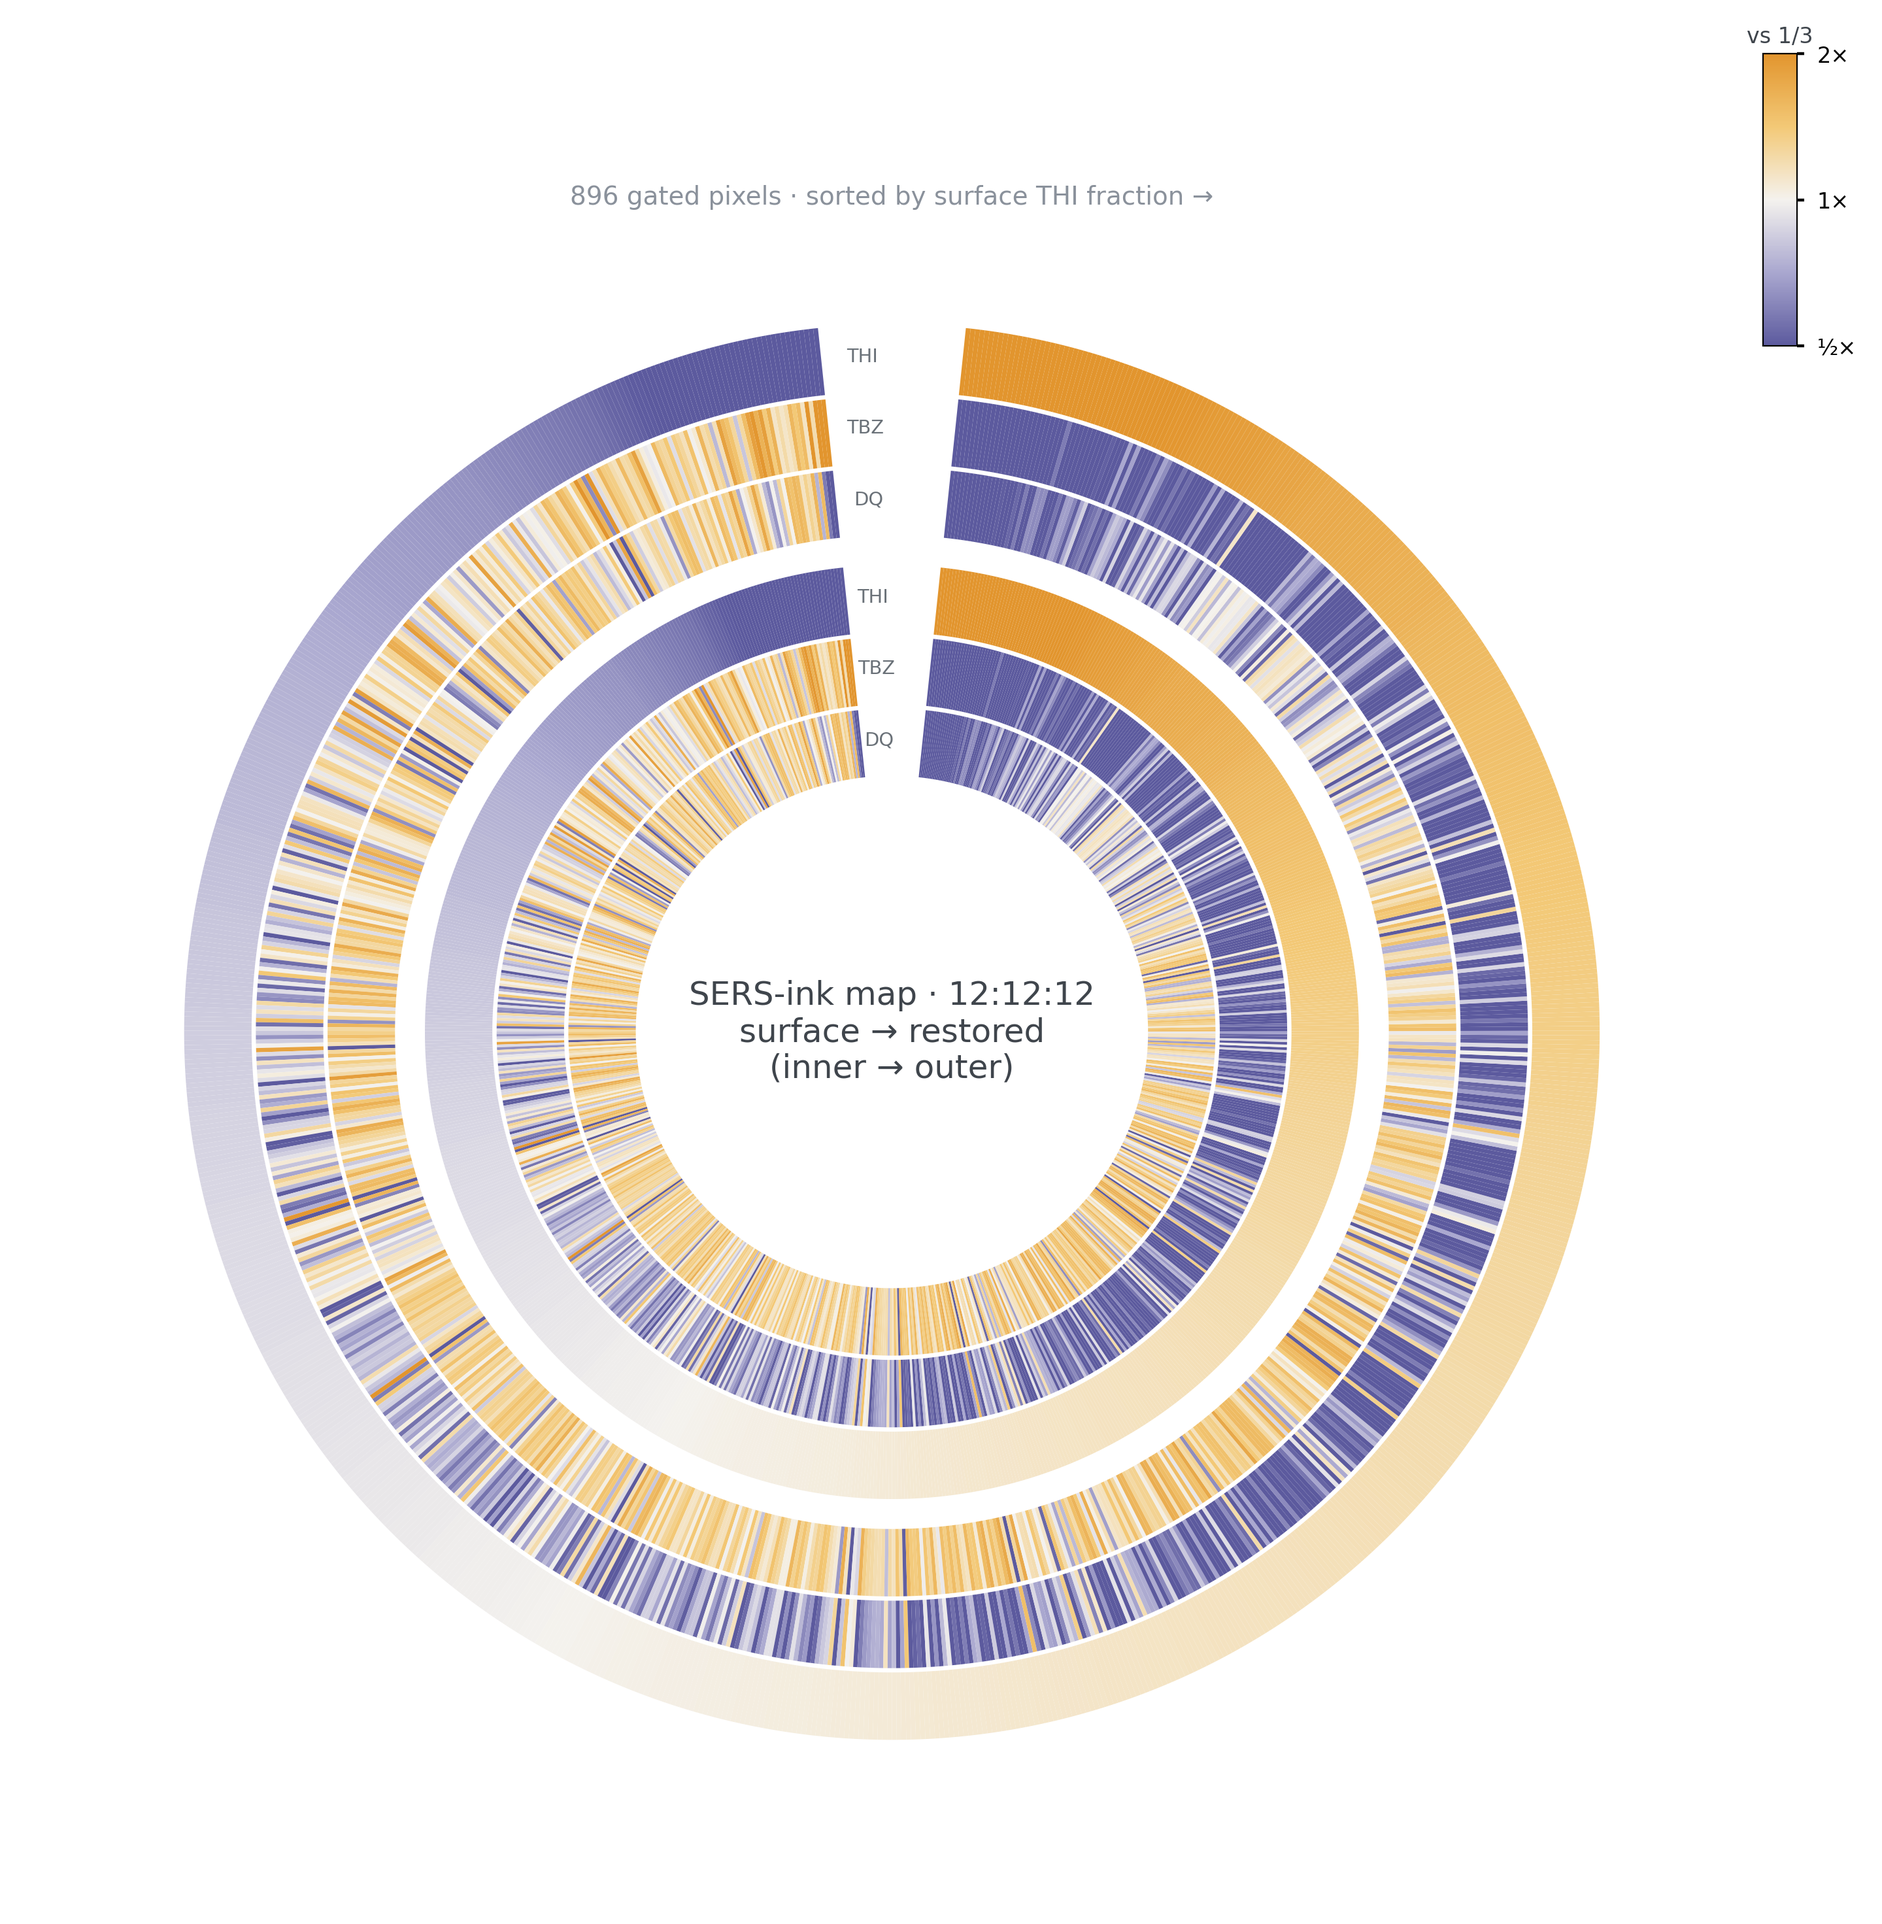
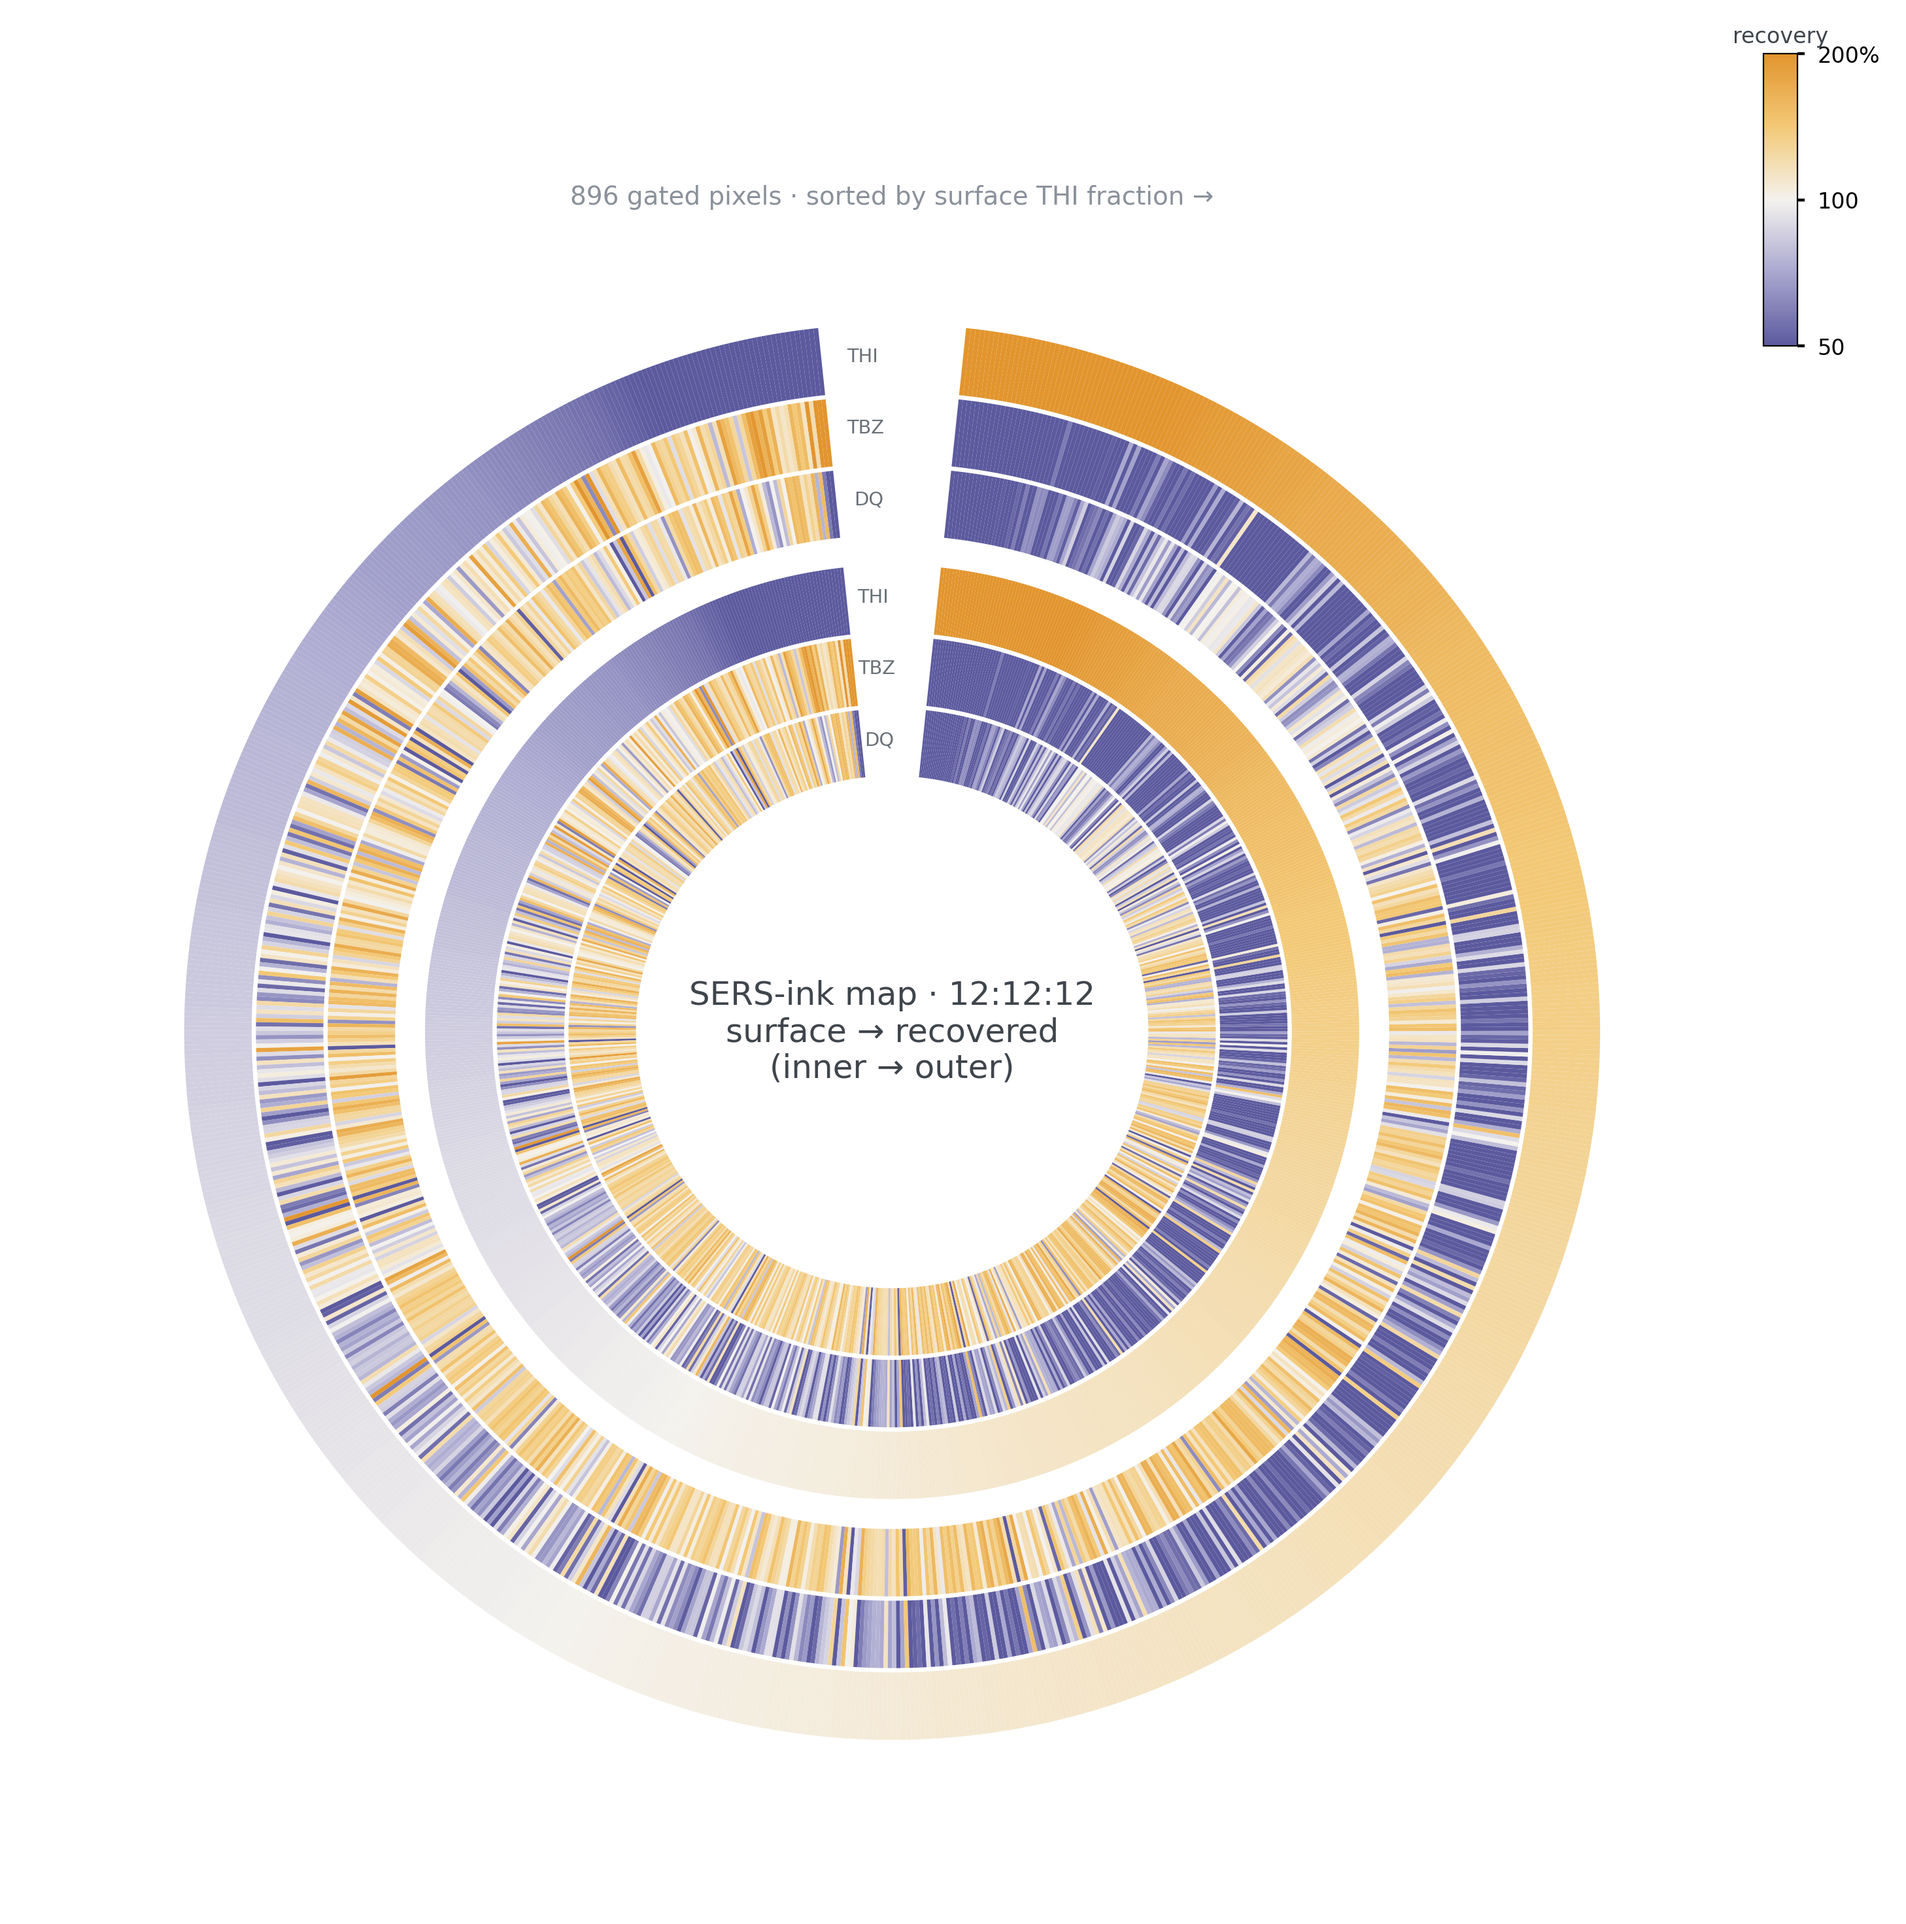
62/62b: standard recovery terminology - colorbar 'recovery' 50/100/200%, center label 'surface -> recovered'

Changed region(s): [[0.1237, 0.1546, 0.8656, 0.8658], [0.3091, 0.0928, 0.6183, 0.1237], [0.9274, 0.0, 0.9892, 0.1855]]

diff --git a/documentation/scripts/fig62b_circular_realmap.py b/documentation/scripts/fig62b_circular_realmap.py
@@ -80,7 +80,7 @@ for ring in range(6):
     ax.bar(th_c, np.full(n, DR * 0.94), bottom=r_in, width=w_c,
            color=cmap(norm(M[ring])), edgecolor="none", zorder=2)
 ax.text(np.deg2rad(90), 0.0,
-        "SERS-ink map · 12:12:12\nsurface → restored\n(inner → outer)",
+        "SERS-ink map · 12:12:12\nsurface → recovered\n(inner → outer)",
         fontsize=9, color="#3f454c", ha="center", va="center", zorder=4)
 for k, s in enumerate(SUBS):
     for base in (R0, R0 + GAP + 3 * DR):
@@ -97,10 +97,10 @@ ax.spines["polar"].set_visible(False)
 cax = fig.add_axes([0.90, 0.80, 0.015, 0.13])
 cb = fig.colorbar(plt.cm.ScalarMappable(norm=norm, cmap=cmap), cax=cax)
 cb.set_ticks([-1, 0, 1])
-cb.set_ticklabels(["½×", "1×", "2×"])
+cb.set_ticklabels(["50", "100", "200%"])
 cax.tick_params(labelsize=6, length=2)
 cb.outline.set_linewidth(0.4)
-cax.set_title("vs 1/3", fontsize=6, color="#3f454c", pad=3)
+cax.set_title("recovery", fontsize=6, color="#3f454c", pad=3)
 fig.savefig(os.path.join(RES, "62b_circular_realmap.png"), dpi=400,
             bbox_inches="tight", facecolor="white")
 print("saved 62b_circular_realmap.png")

diff --git a/documentation/scripts/fig62_circular_rings.py b/documentation/scripts/fig62_circular_rings.py
@@ -109,10 +109,10 @@ ax.spines["polar"].set_visible(False)
 cax = fig.add_axes([0.90, 0.80, 0.015, 0.13])
 cb = fig.colorbar(plt.cm.ScalarMappable(norm=norm, cmap=cmap), cax=cax)
 cb.set_ticks([-1, 0, 1])
-cb.set_ticklabels(["½×", "1×", "2×"])
+cb.set_ticklabels(["50", "100", "200%"])
 cax.tick_params(labelsize=6, length=2)
 cb.outline.set_linewidth(0.4)
-cax.set_title("vs truth", fontsize=6, color="#3f454c", pad=3)
+cax.set_title("recovery", fontsize=6, color="#3f454c", pad=3)
 fig.savefig(os.path.join(RES, "62_circular_rings.png"), dpi=400,
             bbox_inches="tight", facecolor="white")
 print(f"saved 62_circular_rings.png ({n} conditions, red rim = restored"
